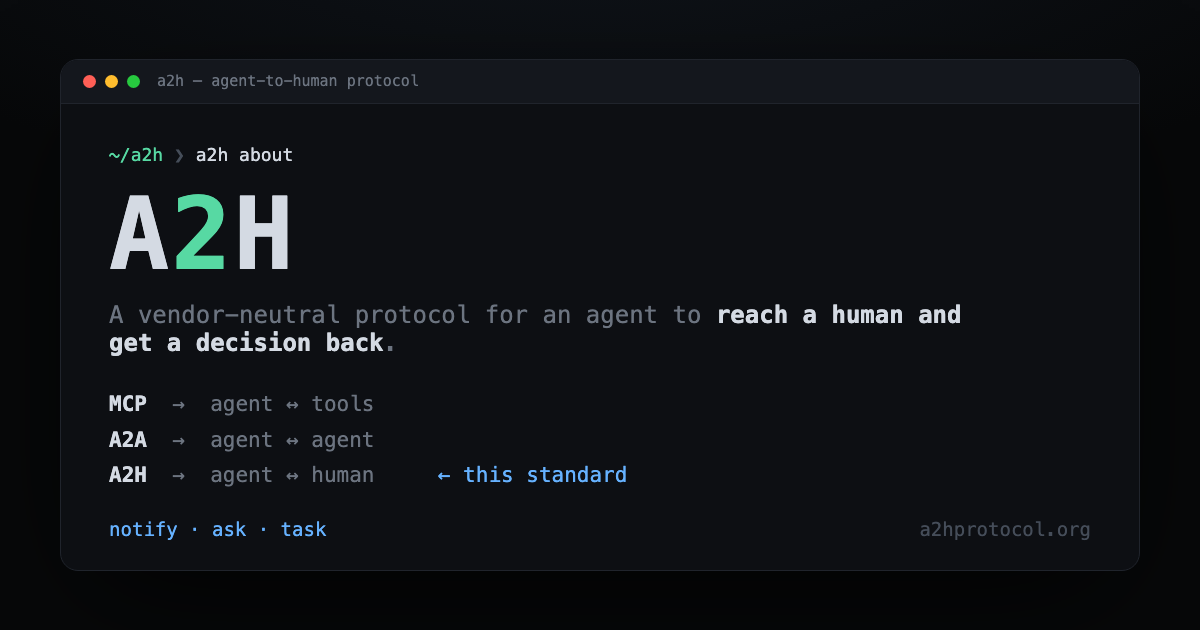
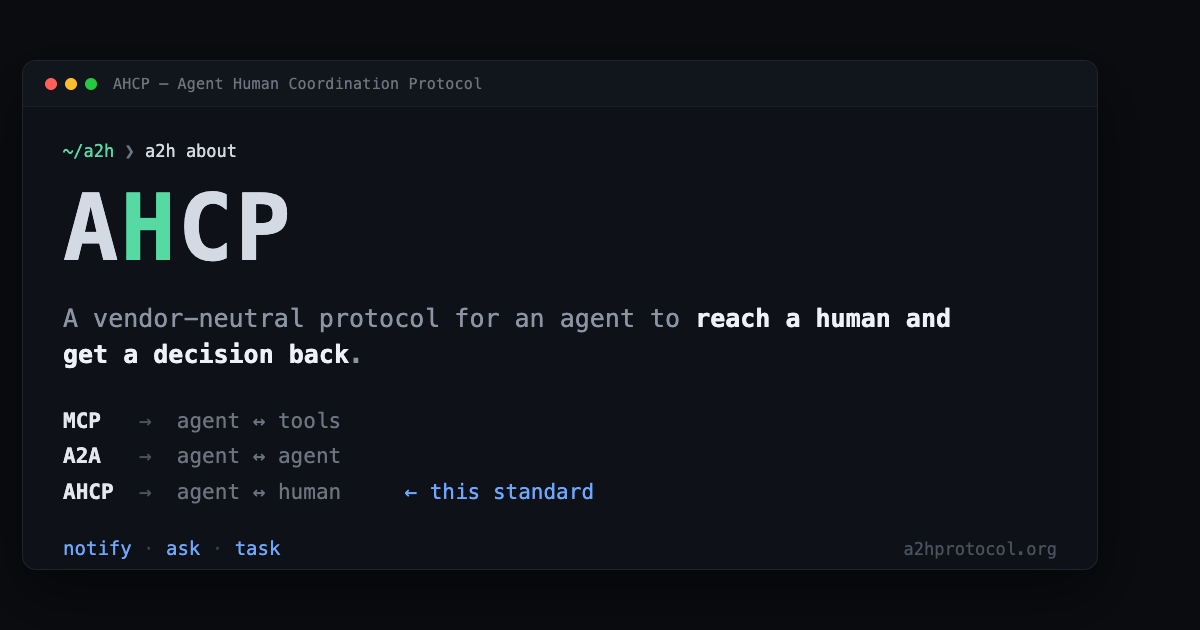
Address PR review feedback (#13)
Codex review (2 × P2):
- Migrate a2h-skills plugin templates v0.2 → v0.3: bump a2h_version to
  0.3, update spec/schema links, and rewrite push verification to
  recompute payload_sha256 + reconstruct the v0.3 §9.2 signed_context
  (payload-bound signature). Hub skill gains the pre-0.3 push-rejection
  rule (§10). Fixes the broken push handoff against a current v0.3 Hub.
- Regenerate og.png (1200×630) with the AHCP wordmark, replacing the
  stale A2H social card; rendered from HTML for pixel-accurate text.
  Frozen tokens (~/a2h, a2h about, a2hprotocol.org) preserved.
- Record both in the audit and CHANGELOG.

diff --git a/plugins/a2h-skills/skills/build-ask/SKILL.md b/plugins/a2h-skills/skills/build-ask/SKILL.md
@@ -19,8 +19,10 @@ leg**, which makes it the most involved verb. Get these right in the generated s
   the message body).
 - **Resume + verify** — the run may end; on the callback it is re-invoked. **Only pushed Responses are
   signed** (`A2H-Signature: t=<unix>,jti=<nonce>,v1=<base64url(sig)>` — RFC 8785 JCS + detached
-  HMAC-SHA256, ±120s window, bound to `id` + `resolution_id` + `callback_url`); a **pull** response is
-  trusted via the authenticated GET transport + the immutable terminal record, with no detached signature.
+  HMAC-SHA256, ±120s window, bound to `id` + `resolution_id` + `callback_url` + **`payload_sha256`**, which
+  binds the answer payload itself so a terminating proxy can't flip `response.value` (v0.3, §9.2)); a
+  **pull** response is trusted via the authenticated GET transport + the immutable terminal record, with no
+  detached signature.
   The agent **MUST verify the signature on push, dedupe on `(in_reply_to, resolution_id)`, and act at most
   once**.
 - **`state`** — any resume context is **agent-owned and sealed by the agent** (AEAD); the Hub never holds
@@ -83,7 +85,7 @@ description: Ask a human a decision via <APP>'s AHCP Hub and route the signed an
 - **Endpoint:** `POST <HUB_URL>/v1/messages`  ·  **Auth:** the Hub's advertised scheme (capability `auth_schemes`) — `Authorization: Bearer $<AUTH_ENV>` for `bearer`, or the API-key header for `apikey`
 
 **Envelope** (`type: "ask"`):
-- `a2h_version`: `"0.2"`, `created_at`: ISO now
+- `a2h_version`: `"0.3"`, `created_at`: ISO now
 - `agent`: `{ "id": "<AGENT_ID>", "run_id": "<RUN_ID>", "runtime": "<RUNTIME>", "project": "<PROJECT>" }`  *(every value is a JSON string — keep the quotes)*
 - `title`, `body` (Markdown), `priority?`, `tags?`
 - **`idempotency_key`** (REQUIRED): stable per logical request (e.g. a hash of the decision context).
@@ -114,11 +116,16 @@ The run may end here. When the human resolves it, the agent gets the terminal Re
   it's trusted via the authenticated GET transport + the immutable terminal record (no `jti` / detached signature).
 
 Then **MUST**:
-1. **(push only) Verify** the signature: recompute RFC 8785 JCS over the `signed_context`, verify the
-   detached `A2H-Signature: t=<unix>,jti=<nonce>,v1=<base64url(sig)>` with the Hub's **advertised algorithm**
-   (`hmac-sha256` with the per-agent key, or `ed25519` — see capability `signature_algs`), the `jti`
-   nonce (not seen before), the ±120s window (`t`), and the binding to `id` + `resolution_id` +
-   `callback_url`. Reject on any mismatch. **Pull skips this step** — just read the terminal `response`.
+1. **(push only) Verify** the signature: first **recompute `payload_sha256`** yourself as the lowercase-hex
+   SHA-256 of the RFC 8785 JCS of the fixed-key object `{ "response": <received `response` or null>,
+   "state": <received `state` or null> }` (v0.3, §9.2 — **never trust a transmitted digest**), then
+   reconstruct the canonical `signed_context` (`a2h_version, callback_url, id, in_reply_to, jti,
+   payload_sha256, resolution, resolution_id, resolved_at, t`) and verify the detached
+   `A2H-Signature: t=<unix>,jti=<nonce>,v1=<base64url(sig)>` over its JCS with the Hub's **advertised
+   algorithm** (`hmac-sha256` with the per-agent key, or `ed25519` — see capability `signature_algs`), the
+   `jti` nonce (not seen before), the ±120s window (`t`), and the binding to `id` + `resolution_id` +
+   `callback_url` + `payload_sha256`. Reject on any mismatch. **Pull skips this step** — just read the
+   terminal `response`.
 2. **Dedupe** on `(in_reply_to, resolution_id)` (where `in_reply_to` is the message `id`) and **act at most
    once** (callbacks may be delivered more than once).
 3. If you sent `state`, **verify + open** it (AEAD) before trusting it.
@@ -129,13 +136,15 @@ Then **MUST**:
    `response.value`** — branch on the resolution and **don't treat a missing value as an error**.
    `response.comment` + `actor` may still be present.
 
-Use the AHCP reference (`signing.verifyResponse`, `state-seal.openState`) for steps 1 (push) and 3 — but
-note `signing.verifyResponse` implements **`hmac-sha256` only** in v0.2; if the Hub advertises **`ed25519`**,
-verify the detached signature over the same JCS `signed_context` with your platform's ed25519 primitive,
-**not** that helper (it returns `alg not implemented: ed25519`).
+Use the AHCP reference for steps 1 (push) and 3: recompute the digest with
+`signing.computePayloadSha256(response, state)`, assemble the context with `signing.buildSignedContext(...)`,
+then call `signing.verifyResponse(signed_context, v1, { key })`; open `state` with `state-seal.openState`.
+Note `signing.verifyResponse` implements **`hmac-sha256` only** in the current reference; if the Hub
+advertises **`ed25519`**, verify the detached signature over the same JCS `signed_context` with your
+platform's ed25519 primitive, **not** that helper (it returns `alg not implemented: ed25519`).
 ````
 
 ## References
-- Spec: <https://a2hprotocol.org/spec/v0.2.md> (§5 verbs, §6 response, §7 lifecycle, §9 security)
-- Schemas: <https://a2hprotocol.org/schema/v0.2/message.schema.json> · <https://a2hprotocol.org/schema/v0.2/response.schema.json>
+- Spec: <https://a2hprotocol.org/spec/v0.3.md> (§5 verbs, §6 response, §7 lifecycle, §9 security)
+- Schemas: <https://a2hprotocol.org/schema/v0.3/message.schema.json> · <https://a2hprotocol.org/schema/v0.3/response.schema.json>
 - Reference impl (verify/seal): <https://github.com/autnmy/a2h-protocol/tree/main/reference>

diff --git a/plugins/a2h-skills/skills/build-task/SKILL.md b/plugins/a2h-skills/skills/build-task/SKILL.md
@@ -72,7 +72,7 @@ description: Ask a human to perform a manual, out-of-band action via <APP>'s AHC
 - **Endpoint:** `POST <HUB_URL>/v1/messages`  ·  **Auth:** the Hub's advertised scheme (capability `auth_schemes`) — `Authorization: Bearer $<AUTH_ENV>` for `bearer`, or the API-key header for `apikey`
 
 **Envelope** (`type: "task"`):
-- `a2h_version`: `"0.2"`, `created_at`: ISO now
+- `a2h_version`: `"0.3"`, `created_at`: ISO now
 - `agent`: `{ "id": "<AGENT_ID>", "run_id": "<RUN_ID>", "runtime": "<RUNTIME>", "project": "<PROJECT>" }`  *(every value is a JSON string — keep the quotes)*
 - `title`, `body` (Markdown), `priority?`, `tags?`
 - **`idempotency_key`** (REQUIRED): stable per logical task.
@@ -102,11 +102,15 @@ The run may end here. When the human resolves it, the agent gets the terminal Re
   via the authenticated GET transport + the immutable terminal record (no `jti` / detached signature).
 
 Then **MUST**:
-1. **(push only) Verify** the signature: recompute RFC 8785 JCS over the `signed_context`, verify the
-   detached `A2H-Signature: t=<unix>,jti=<nonce>,v1=<base64url(sig)>` with the Hub's **advertised algorithm**
-   (`hmac-sha256` per-agent key, or `ed25519` — see capability `signature_algs`), the `jti`
-   nonce, the ±120s window (`t`), and the binding to `id` + `resolution_id` + `callback_url`. Reject on any
-   mismatch. **Pull skips this step** — just read the terminal `response`.
+1. **(push only) Verify** the signature: first **recompute `payload_sha256`** yourself as the lowercase-hex
+   SHA-256 of the RFC 8785 JCS of the fixed-key object `{ "response": <received `response` or null>,
+   "state": <received `state` or null> }` (v0.3, §9.2 — **never trust a transmitted digest**), then
+   reconstruct the canonical `signed_context` (`a2h_version, callback_url, id, in_reply_to, jti,
+   payload_sha256, resolution, resolution_id, resolved_at, t`) and verify the detached
+   `A2H-Signature: t=<unix>,jti=<nonce>,v1=<base64url(sig)>` over its JCS with the Hub's **advertised
+   algorithm** (`hmac-sha256` per-agent key, or `ed25519` — see capability `signature_algs`), the `jti`
+   nonce, the ±120s window (`t`), and the binding to `id` + `resolution_id` + `callback_url` +
+   `payload_sha256`. Reject on any mismatch. **Pull skips this step** — just read the terminal `response`.
 2. **Dedupe** on `(in_reply_to, resolution_id)` (where `in_reply_to` is the message `id`) and **act at most
    once**.
 3. If you sent `state`, **verify + open** it (AEAD) before trusting it.
@@ -114,13 +118,15 @@ Then **MUST**:
    `response.comment` and/or the final `checklist` state — there is **no `response.value`** (that field is
    reserved for `ask`).
 
-Use the AHCP reference (`signing.verifyResponse`, `state-seal.openState`) for steps 1 (push) and 3 — but
-note `signing.verifyResponse` implements **`hmac-sha256` only** in v0.2; if the Hub advertises **`ed25519`**,
-verify the detached signature over the same JCS `signed_context` with your platform's ed25519 primitive,
-**not** that helper (it returns `alg not implemented: ed25519`).
+Use the AHCP reference for steps 1 (push) and 3: recompute the digest with
+`signing.computePayloadSha256(response, state)`, assemble the context with `signing.buildSignedContext(...)`,
+then call `signing.verifyResponse(signed_context, v1, { key })`; open `state` with `state-seal.openState`.
+Note `signing.verifyResponse` implements **`hmac-sha256` only** in the current reference; if the Hub
+advertises **`ed25519`**, verify the detached signature over the same JCS `signed_context` with your
+platform's ed25519 primitive, **not** that helper (it returns `alg not implemented: ed25519`).
 ````
 
 ## References
-- Spec: <https://a2hprotocol.org/spec/v0.2.md> (§5 verbs, §6 response, §7 lifecycle, §9 security)
-- Schemas: <https://a2hprotocol.org/schema/v0.2/message.schema.json> · <https://a2hprotocol.org/schema/v0.2/response.schema.json>
+- Spec: <https://a2hprotocol.org/spec/v0.3.md> (§5 verbs, §6 response, §7 lifecycle, §9 security)
+- Schemas: <https://a2hprotocol.org/schema/v0.3/message.schema.json> · <https://a2hprotocol.org/schema/v0.3/response.schema.json>
 - Reference impl (verify/seal): <https://github.com/autnmy/a2h-protocol/tree/main/reference>

diff --git a/docs/ahcp-rebrand-audit.md b/docs/ahcp-rebrand-audit.md
@@ -35,12 +35,16 @@ Content that reads as internal notes or product marketing rather than protocol d
 | `README.md:56–61` | Repo-layout block points at `schema/v0.2/`. | **REWRITE → schema/v0.3/** (current), or list both with v0.3 marked current. |
 | `reference/README.md:4` | Current-spec link targets `../spec/v0.2.md` while the reference implementation is `@a2h/reference@0.3.0` (v0.3 behavior). | **REWRITE → ../spec/v0.3.md.** The reference impl is v0.3, so this pointer was genuinely stale. |
 
-**Deliberately NOT changed (version-pinned, not stale):** the plugin skill templates
-(`plugins/a2h-skills/skills/*/SKILL.md`) reference `spec/v0.2.md` / `schema/v0.2/` **and** instruct
-generated agents to send `a2h_version: "0.2"`. Those skills are internally consistent at v0.2; bumping
-only their spec links to v0.3 would create a mismatch, and bumping the emitted `a2h_version` is a
-behavioral/version change forbidden by this rename's constraints. Re-targeting the skills to v0.3 is a
-deliberate future decision (recorded as residual review work), not a naming fix.
+**Plugin skill templates migrated v0.2 → v0.3 (scope expansion, approved during PR review).** The
+plugin skill templates (`plugins/a2h-skills/skills/*/SKILL.md`) previously emitted `a2h_version: "0.2"`
+and linked the v0.2 spec/schema. Because v0.3 is current **and** a v0.3 Hub rejects pre-0.3 **push**
+callbacks (`version_not_supported`, §10), following these templates with a push callback against a
+current Hub broke ask/task flows — a real functional issue (raised by Codex review on the PR, confirmed
+against `version-negotiation.test.ts`). With explicit approval the templates were migrated to v0.3:
+`a2h_version: "0.3"`, v0.3 spec/schema links, and the push verification guidance now recomputes
+`payload_sha256` and reconstructs the 10-field `signed_context` per the v0.3 §9.2 payload-binding (the
+breaking signature change). This is a **behavioral** change beyond the naming-only rebrand, made
+deliberately to keep the tooling correct against the current protocol.
 
 No `a2h_version` value, schema, or normative content is changed by these fixes — they correct stale
 pointers only.
@@ -95,7 +99,7 @@ the `a2h` CLI verbatim. This brand↔CLI split is intentional (see `MIGRATION.md
 
 | Asset | Issue | Disposition |
 |-------|-------|-------------|
-| `og.png` | Binary social-card image rendered with the "A2H" wordmark. | **FLAG / DEFER.** Cannot be edited as text; regenerate the artwork with the AHCP wordmark in a follow-up. Not a code change. |
+| `og.png` | Binary social-card image previously rendered with the "A2H" wordmark. | **REGENERATED.** Replaced (1200×630) with an AHCP card matching the original terminal design — wordmark "AHCP" (H accented), updated title bar/diagram; frozen tokens (`~/a2h`, `a2h about`, `a2hprotocol.org`) preserved. Rendered from HTML for pixel-accurate text. |
 | `favicon.svg` | Contains one `A2H` text token. | **RENAME** (text edit, in scope — U4). |
 
 ---
@@ -125,4 +129,4 @@ The rebrand is correct iff, after all edits:
 > 0 fail**; `schema/` and `conformance/` diffs limited to `title`/`description` strings (vectors
 > untouched); brand grep returns only frozen identifiers (`A2H-Signature`, `A2H_CALLBACK_SECRET`,
 > `.well-known/a2h`, `a2h_version`, `@a2h`, `a2h-skills`, `a2hprotocol.org`, `autnmy/a2h-protocol`).
-> `og.png` remains flagged for artwork regeneration (deferred, non-code).
+> `og.png` was regenerated (1200×630 AHCP card, rendered from HTML) in response to PR review.

diff --git a/plugins/a2h-skills/skills/implement/SKILL.md b/plugins/a2h-skills/skills/implement/SKILL.md
@@ -24,8 +24,8 @@ Your definition of done is **conformance**, not a copied reference implementatio
 ## 0. Ground yourself in the spec
 
 Read these before writing code — they are the source of truth:
-- **Spec:** <https://a2hprotocol.org/spec/v0.2.md> (§5 verbs · §6 response · §7 lifecycle · §8 transport · §9 security)
-- **Schemas:** <https://a2hprotocol.org/schema/v0.2/message.schema.json> · `response.schema.json` · `capability.schema.json` · `submit-ack.schema.json` · `get-message.schema.json`
+- **Spec:** <https://a2hprotocol.org/spec/v0.3.md> (§5 verbs · §6 response · §7 lifecycle · §8 transport · §9 security)
+- **Schemas:** <https://a2hprotocol.org/schema/v0.3/message.schema.json> · `response.schema.json` · `capability.schema.json` · `submit-ack.schema.json` · `get-message.schema.json`
 - **Reference impl** (the crypto/lifecycle, to mirror — see §3): <https://github.com/autnmy/a2h-protocol/tree/main/reference>
 - **Conformance vectors** (your tests): <https://github.com/autnmy/a2h-protocol/tree/main/conformance>
 
@@ -60,7 +60,7 @@ implementation is done when each MUST below holds **and** the vectors pass.
 - [ ] **`id` is Hub-assigned**, never a client input. Clients correlate via `client_ref` (opaque; never a dedup key; never shown to resolvers).
 - [ ] **Idempotency:** `idempotency_key` is **required** for `ask`/`task`; dedup scope `(agent.id, idempotency_key)` → a retry with an **identical payload** returns the same `id`, never a second row/decision. Reusing the **same key with a different payload** MUST return **`409 Conflict`** (never silently the original `id`).
 - [ ] **`state` is agent-owned + sealed:** opaque AEAD blob; the **Hub MUST NOT inspect, log, or hold the key**; returned **verbatim** on resolution.
-- [ ] **Every pushed Response is signed:** RFC 8785 **JCS** over the `signed_context` + a **detached signature** — `hmac-sha256`, or `ed25519` if the Hub advertises it in capability `signature_algs` (§9.2) — with a `jti` nonce, a ±120s window, and binding to `id` + `resolution_id` + `callback_url`.
+- [ ] **Every pushed Response is signed:** RFC 8785 **JCS** over the `signed_context` + a **detached signature** — `hmac-sha256`, or `ed25519` if the Hub advertises it in capability `signature_algs` (§9.2) — with a `jti` nonce, a ±120s window, and binding to `id` + `resolution_id` + `callback_url` + **`payload_sha256`** (v0.3 binds the response payload — the lowercase-hex SHA-256 of the JCS of `{ response, state }` — so a terminating proxy can't flip `response.value`; §9.2). Because this signature break is at the **push** leg, a Hub MUST reject a **push** callback requested at a **pre-0.3** `a2h_version` with `version_not_supported` (pull stays compatible; §10).
 - [ ] **`actor` is Hub-attested** from the authenticated session — never the resolving request body; format `<type>:<id>`, `type ∈ {human, agent, system}`.
 - [ ] **Resolver authz is fail-closed** (`allowed_resolvers` absent ⇒ only the submitting agent's actor **`agent:<agent.id>`** may resolve — actors compare in `<type>:<id>` form, never the raw id).
 - [ ] **Request-leg auth** (§9.1): the agent credential is scoped to one `agent.id` — **reject an envelope whose `agent.id` ≠ the credential (`403`)**, and **bind each message's poll, callback, AND cancel access to the submitting principal** (one agent must not read — or `POST /v1/messages/{id}/cancel` to terminally withdraw — another's message by `id`); `run_id` is opaque and **MUST NOT** authorize cross-run access.
@@ -102,6 +102,6 @@ Tell the implementer: the Hub is up at `<base-url>` with `<auth>`. **To let agen
 `build-notify` / `build-ask` / `build-task`** in the apps whose agents should reach this Hub.
 
 ## References
-- AHCP: <https://a2hprotocol.org> · Spec: <https://a2hprotocol.org/spec/v0.2.md>
-- Schemas: <https://a2hprotocol.org/schema/v0.2/message.schema.json>
+- AHCP: <https://a2hprotocol.org> · Spec: <https://a2hprotocol.org/spec/v0.3.md>
+- Schemas: <https://a2hprotocol.org/schema/v0.3/message.schema.json>
 - Reference impl + conformance: <https://github.com/autnmy/a2h-protocol/tree/main/reference> · <https://github.com/autnmy/a2h-protocol/tree/main/conformance>

diff --git a/CHANGELOG.md b/CHANGELOG.md
@@ -5,6 +5,12 @@ All notable changes to the AHCP (Agent Human Coordination Protocol) specificatio
 ## Unreleased
 
 ### Changed
+- **`a2h-skills` plugin templates migrated to v0.3.** The `implement` / `build-notify` / `build-ask` /
+  `build-task` skills now target `a2h_version: "0.3"`, link the v0.3 spec/schema, and the push
+  verification guidance recomputes `payload_sha256` and reconstructs the v0.3 §9.2 `signed_context`
+  (payload-bound signature). Previously the templates emitted `a2h_version: "0.2"`, so following them
+  with a **push** callback against a current v0.3 Hub broke (the Hub rejects pre-0.3 push with
+  `version_not_supported`, §10). Generated sender skills now interoperate with a current Hub on push.
 - **Rebrand: A2H → AHCP.** The protocol's name is now **AHCP — Agent Human Coordination Protocol**
   (formerly *A2H — Agent-to-Human Protocol*). This is a **naming and documentation change only** — no
   protocol semantics, message shapes, schemas, endpoints, or version changed, and `a2h_version` is

diff --git a/plugins/a2h-skills/skills/build-notify/SKILL.md b/plugins/a2h-skills/skills/build-notify/SKILL.md
@@ -63,7 +63,7 @@ Compose and POST an AHCP `notify` to <APP>'s Hub. Fire-and-forget — do not wai
 - **Auth:** the Hub's advertised scheme (capability `auth_schemes`) — `Authorization: Bearer $<AUTH_ENV>` for `bearer`, or the API-key header for `apikey`; read from the environment, never hardcode
 
 **Envelope** (`type: "notify"`):
-- `a2h_version`: `"0.2"`
+- `a2h_version`: `"0.3"`
 - `created_at`: ISO-8601 now
 - `agent`: `{ "id": "<AGENT_ID>", "run_id": "<RUN_ID>", "runtime": "<RUNTIME>", "project": "<PROJECT>" }`  *(every value is a JSON string — keep the quotes)*
 - `title`: short subject (≤ 200 chars)
@@ -84,7 +84,7 @@ curl -sS -X POST "<HUB_URL>/v1/messages" \
   -H "Authorization: Bearer $<AUTH_ENV>" \
   -H "Content-Type: application/json" \
   -d '{
-    "a2h_version": "0.2",
+    "a2h_version": "0.3",
     "type": "notify",
     "created_at": "'"$(date -u +%FT%TZ)"'",
     "agent": { "id": "<AGENT_ID>", "run_id": "'"$RUN_ID"'", "runtime": "<RUNTIME>", "project": "<PROJECT>" },
@@ -95,5 +95,5 @@ curl -sS -X POST "<HUB_URL>/v1/messages" \
 ````
 
 ## References
-- Spec: <https://a2hprotocol.org/spec/v0.2.md> · Message schema: <https://a2hprotocol.org/schema/v0.2/message.schema.json>
+- Spec: <https://a2hprotocol.org/spec/v0.3.md> · Message schema: <https://a2hprotocol.org/schema/v0.3/message.schema.json>
 - AHCP overview: <https://a2hprotocol.org>